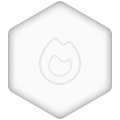
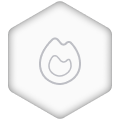
Improved how the incomplete badge assets look. Moved quest history related ui into a single subfolder in /frontend/src/components

Changed region(s): [[0.325, 0.3, 0.675, 0.725], [0.4, 0.45, 0.6, 0.65]]

diff --git a/apps/frontend/src/routes/main/QuestsPage.tsx b/apps/frontend/src/routes/main/QuestsPage.tsx
@@ -3,7 +3,7 @@ import { useMemo, useState } from 'react';
 import { BsCheckCircleFill, BsFire, BsStarFill, BsTrophy, BsHexagon } from 'react-icons/bs';
 import { GiLockedChest, GiOpenTreasureChest } from 'react-icons/gi';
 import MainSection from '../../components/MainSection';
-import QuestHistoryCard from '../../components/QuestHistoryCard';
+import QuestHistoryCard from '../../components/quest-history/QuestHistoryCard';
 import { useQuestPageState } from '../../hooks/page-state/useQuestPageState';
 import styles from './QuestsPage.module.css';
 

diff --git a/apps/frontend/src/components/quest-history/QuestHistoryCard.tsx b/apps/frontend/src/components/quest-history/QuestHistoryCard.tsx
@@ -2,7 +2,7 @@
 import { QuestTypeValues, type QuestView } from '@scholarxp/api-contracts';
 import { AnimatePresence } from 'motion/react';
 import { useEffect, useState } from 'react';
-import { getQuestBadge } from '../constants/quest-constants';
+import { getQuestBadge } from '@/constants/quest-constants';
 import QuestBadgeTooltip from './QuestBadgeTooltip';
 import styles from './QuestHistoryCard.module.css';
 

diff --git a/apps/frontend/src/components/header/TodayQuestPopover.module.css b/apps/frontend/src/components/header/TodayQuestPopover.module.css
@@ -183,9 +183,6 @@
   transform: scale(1.1);
 }
 
-.incompleteSlot .badge {
-  filter: opacity(0.8);
-}
 
 .slotCheck {
   position: absolute;
